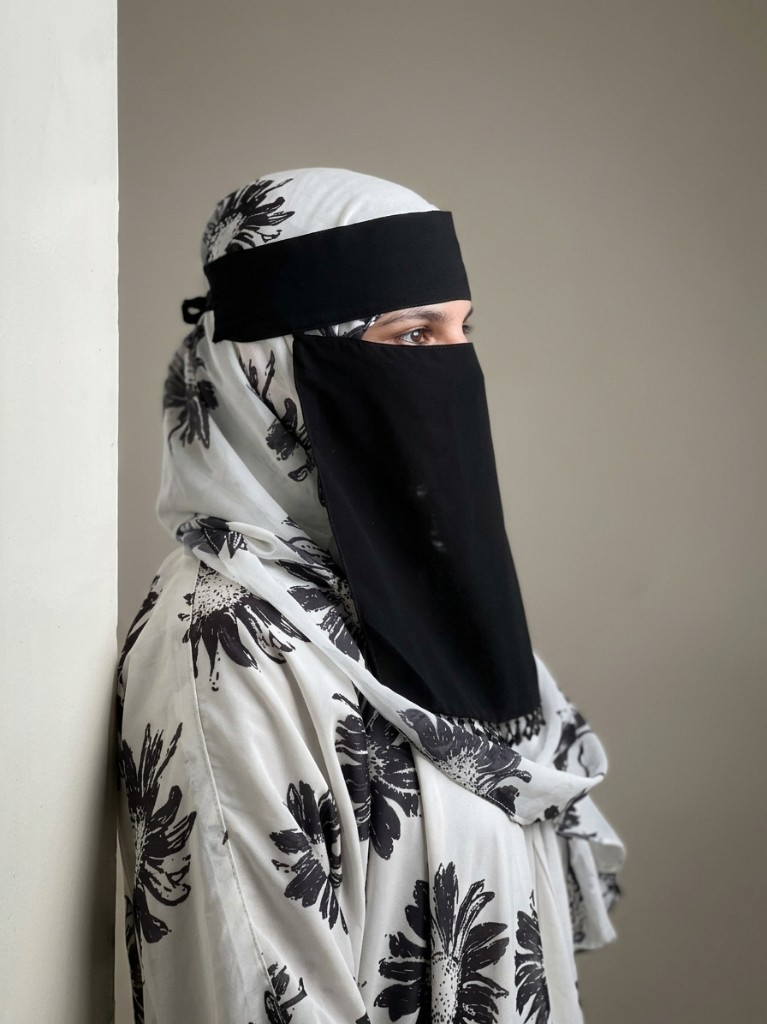
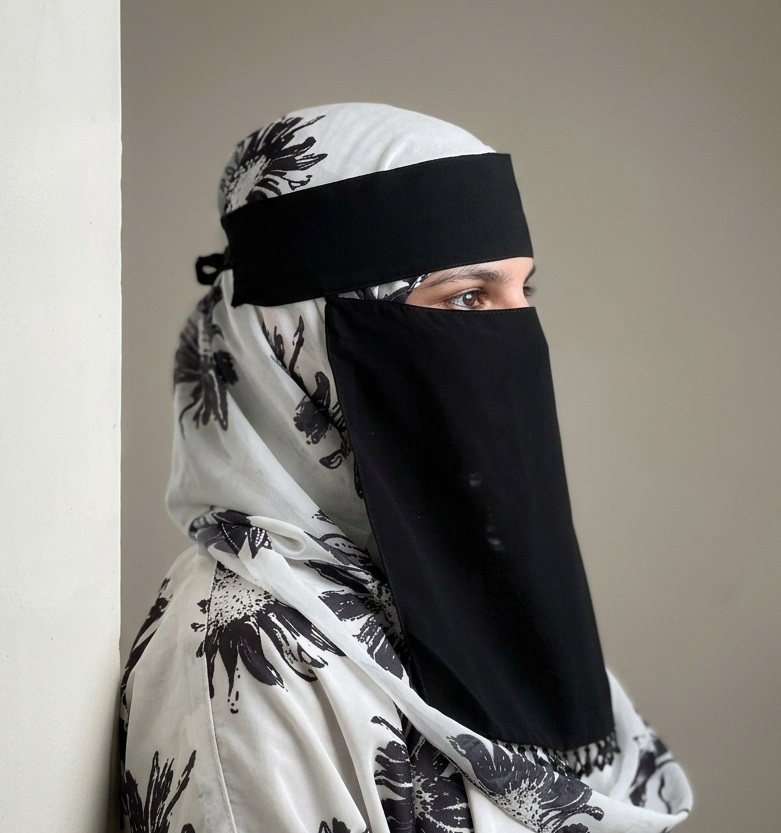
Darken the hero and give the about section a stronger portrait and warmer color.

diff --git a/css/styles.css b/css/styles.css
@@ -37,7 +37,10 @@ body {
   font-size: 1.02rem;
   line-height: 1.7;
   color: var(--body);
-  background: var(--bg);
+  background:
+    radial-gradient(920px 460px at 100% -8%, rgba(184, 92, 56, 0.16), transparent 58%),
+    radial-gradient(760px 420px at -8% 28%, rgba(146, 98, 128, 0.12), transparent 56%),
+    var(--bg);
   text-rendering: optimizeLegibility;
   -webkit-font-smoothing: antialiased;
 }
@@ -124,7 +127,7 @@ ul, ol { padding: 0; }
   position: absolute;
   inset: 0;
   z-index: -1;
-  background: rgba(246, 241, 235, 0.92);
+  background: rgba(22, 14, 12, 0.88);
   backdrop-filter: blur(16px);
   pointer-events: none;
 }
@@ -147,7 +150,7 @@ html.nav-open { overflow: hidden; }
   align-items: center;
   gap: 0.7rem;
   text-decoration: none;
-  color: var(--text);
+  color: #f6f1eb;
 }
 
 .logo-mark {
@@ -155,9 +158,9 @@ html.nav-open { overflow: hidden; }
   height: 36px;
   display: grid;
   place-items: center;
-  border: 1px solid rgba(143, 90, 60, 0.55);
+  border: 1px solid rgba(231, 160, 122, 0.7);
   border-radius: 8px;
-  color: var(--gold-2);
+  color: #e7a07a;
   font-family: var(--serif);
   font-size: 0.95rem;
 }
@@ -175,10 +178,10 @@ html.nav-open { overflow: hidden; }
   justify-content: center;
   width: 44px;
   height: 44px;
-  border: 1px solid var(--line);
+  border: 1px solid rgba(246, 241, 235, 0.22);
   border-radius: 10px;
   background: transparent;
-  color: var(--text);
+  color: #f6f1eb;
 }
 
 .nav-toggle-box {
@@ -221,14 +224,15 @@ html.nav-open { overflow: hidden; }
 
 .nav-list a:not(.btn) {
   text-decoration: none;
-  color: var(--muted);
+  color: #e6ddd4;
   font-size: 0.95rem;
   font-weight: 500;
   transition: color 0.2s ease;
 }
 
 .nav-list a:not(.btn):hover,
-.nav-list a:not(.btn)[aria-current="true"] { color: var(--gold-2); }
+.nav-list a:not(.btn)[aria-current="true"],
+.nav-list a:not(.btn)[aria-current="page"] { color: #e7a07a; }
 
 [hidden] { display: none !important; }
 
@@ -286,10 +290,10 @@ html.nav-open { overflow: hidden; }
   inset: 0;
   z-index: -1;
   overflow: hidden;
-  background-color: var(--bg);
+  background-color: #140e0c;
   background-image:
-    linear-gradient(rgba(62, 42, 34, 0.045) 1px, transparent 1px),
-    linear-gradient(90deg, rgba(62, 42, 34, 0.045) 1px, transparent 1px);
+    linear-gradient(rgba(246, 241, 235, 0.045) 1px, transparent 1px),
+    linear-gradient(90deg, rgba(246, 241, 235, 0.045) 1px, transparent 1px);
   background-size: 72px 72px;
 }
 
@@ -298,8 +302,9 @@ html.nav-open { overflow: hidden; }
   position: absolute;
   inset: -12%;
   background:
-    radial-gradient(520px 360px at 18% 28%, rgba(143, 90, 60, 0.16), transparent 70%),
-    radial-gradient(460px 340px at 82% 72%, rgba(196, 148, 122, 0.18), transparent 70%);
+    radial-gradient(620px 420px at 14% 18%, rgba(184, 92, 56, 0.55), transparent 68%),
+    radial-gradient(520px 380px at 86% 78%, rgba(122, 72, 108, 0.42), transparent 70%),
+    radial-gradient(420px 300px at 72% 8%, rgba(212, 164, 96, 0.28), transparent 72%);
   animation: drift 18s ease-in-out infinite alternate;
 }
 
@@ -309,9 +314,9 @@ html.nav-open { overflow: hidden; }
   left: 0;
   right: 0;
   bottom: 0;
-  height: 90px;
+  height: 110px;
   z-index: 1;
-  background: linear-gradient(transparent, var(--bg-alt));
+  background: linear-gradient(transparent, #f4ebe4);
 }
 
 @keyframes drift {
@@ -353,13 +358,34 @@ article[id] { scroll-margin-top: calc(var(--header) + 0.65rem); }
   font-weight: 500;
   line-height: 0.94;
   letter-spacing: -0.025em;
-  color: var(--text);
+  color: #f8f1ea;
+}
+
+.hero .kicker,
+.hero .kicker span { color: #e7a07a; }
+
+.hero .lede,
+.hero .stat-line,
+.hero .cred-list,
+.hero .portrait figcaption { color: #e4d8ce; }
+
+.hero .stat-line strong { color: #fffdf9; }
+
+.hero .btn-secondary {
+  color: #f6f1eb;
+  border-color: rgba(246, 241, 235, 0.38);
+}
+
+.hero .btn-secondary:hover {
+  border-color: #e7a07a;
+  color: #fffdf9;
+  background: rgba(231, 160, 122, 0.14);
 }
 
 .hero-lead {
   max-width: 16em;
   margin-top: 1.15rem;
-  color: var(--text);
+  color: #f3e6da;
   font-size: clamp(1.35rem, 2.3vw, 1.9rem);
   font-weight: 500;
   line-height: 1.25;
@@ -371,7 +397,7 @@ article[id] { scroll-margin-top: calc(var(--header) + 0.65rem); }
   font-family: var(--serif);
   font-style: italic;
   font-weight: 400;
-  color: var(--gold-2);
+  color: #e7a07a;
 }
 
 .lede {
@@ -1576,6 +1602,19 @@ main { animation: pageIn 0.55s ease both; }
   margin: 0;
 }
 
+.about-photo {
+  padding: 7px;
+  border-radius: 28px;
+  background: linear-gradient(155deg, #e7a07a, #b85c38 42%, #2a1814 100%);
+  box-shadow: 0 28px 54px rgba(42, 24, 20, 0.2);
+}
+
+#about {
+  background:
+    radial-gradient(ellipse at 0% 10%, rgba(184, 92, 56, 0.2), transparent 46%),
+    linear-gradient(145deg, #f8e4d8 0%, #f3d9cc 48%, #efe3ef 100%);
+}
+
 .about-photo img,
 .section-photo img {
   display: block;
@@ -1589,7 +1628,7 @@ main { animation: pageIn 0.55s ease both; }
 
 .about-photo img {
   height: min(560px, 72vh);
-  object-position: center 18%;
+  object-position: 64% 12%;
 }
 
 .frame-photo img { height: 280px; object-position: center; }

diff --git a/index.html b/index.html
@@ -7,7 +7,7 @@
   <meta name="description" content="Eman Sultan is an SEO Specialist helping businesses improve search visibility through strategic SEO, content optimization, local SEO, and technical SEO." />
   <meta name="author" content="Eman Sultan" />
   <meta name="robots" content="index, follow" />
-  <meta name="theme-color" content="#f6f1eb" />
+  <meta name="theme-color" content="#140e0c" />
   <!-- Replace the placeholder domain with the live website URL -->
   <link rel="canonical" href="https://your-domain.com/" />
   <meta property="og:type" content="website" />
